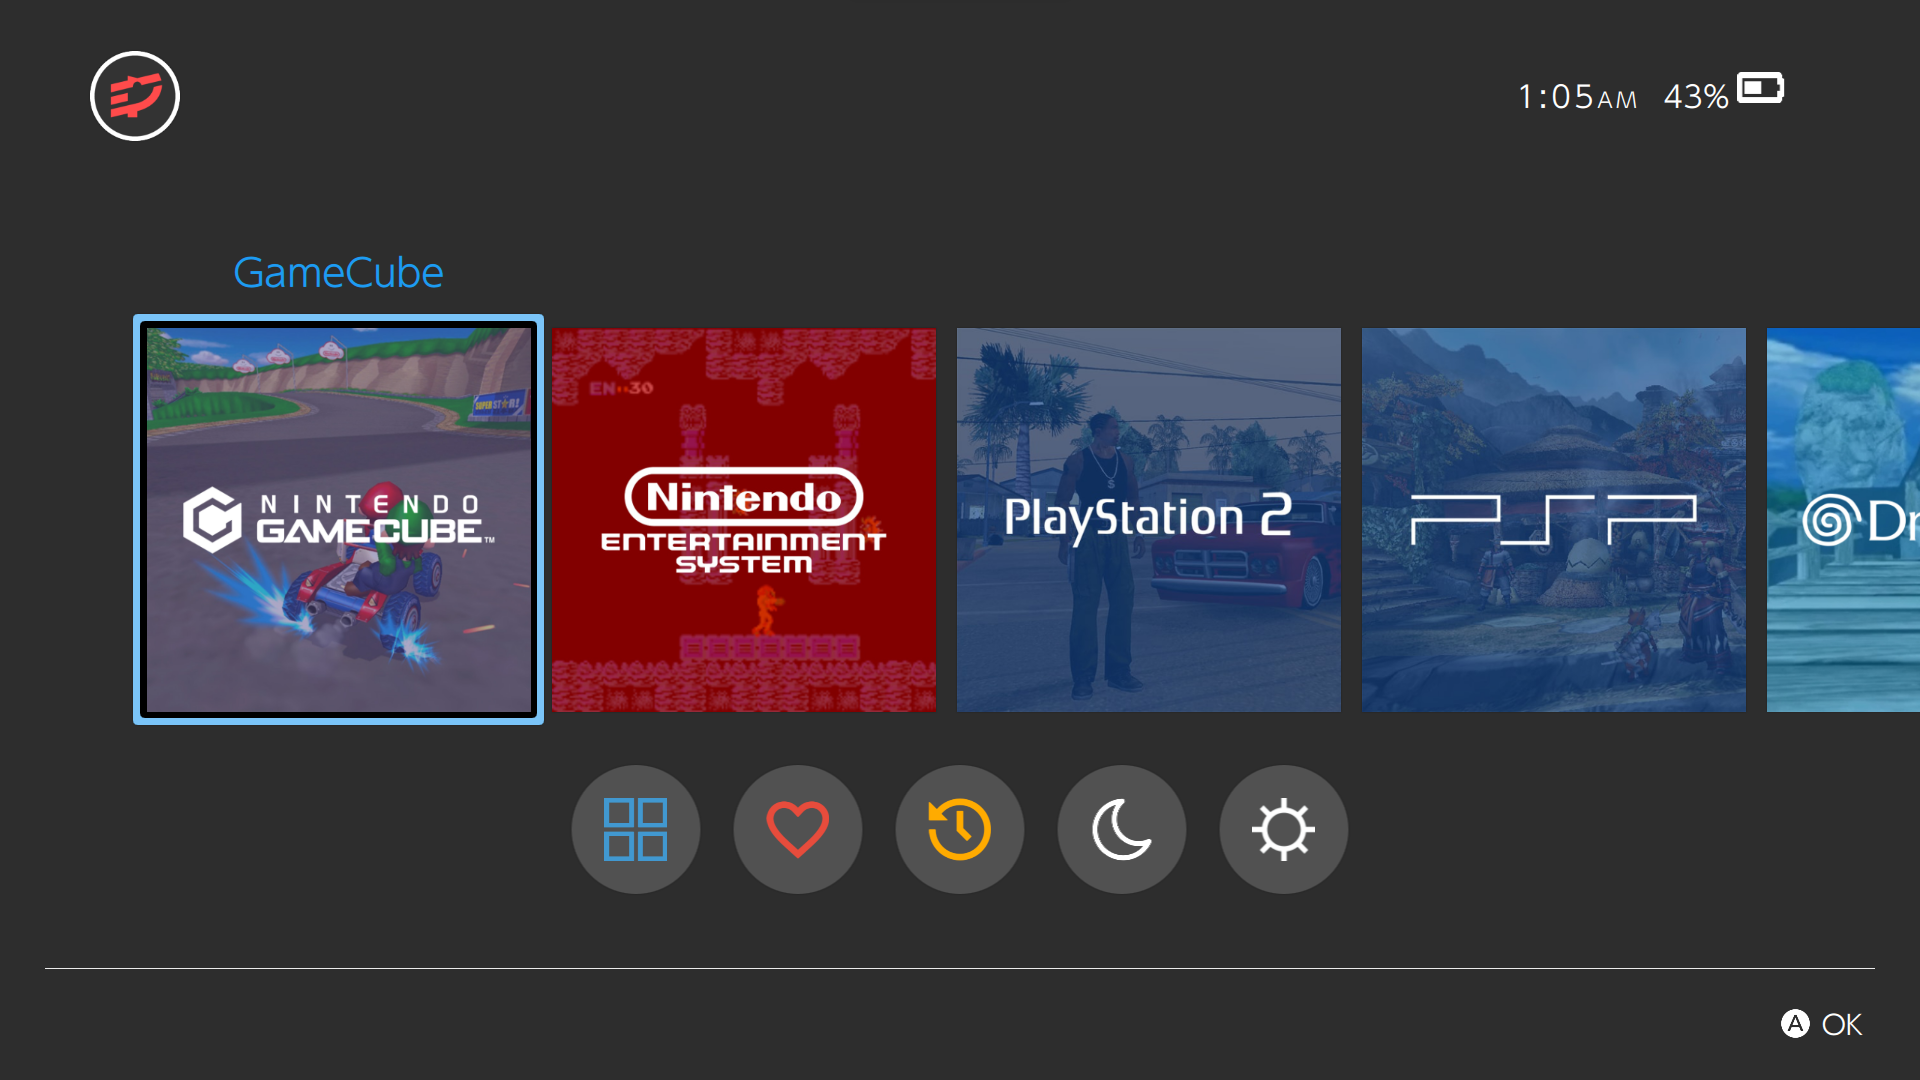
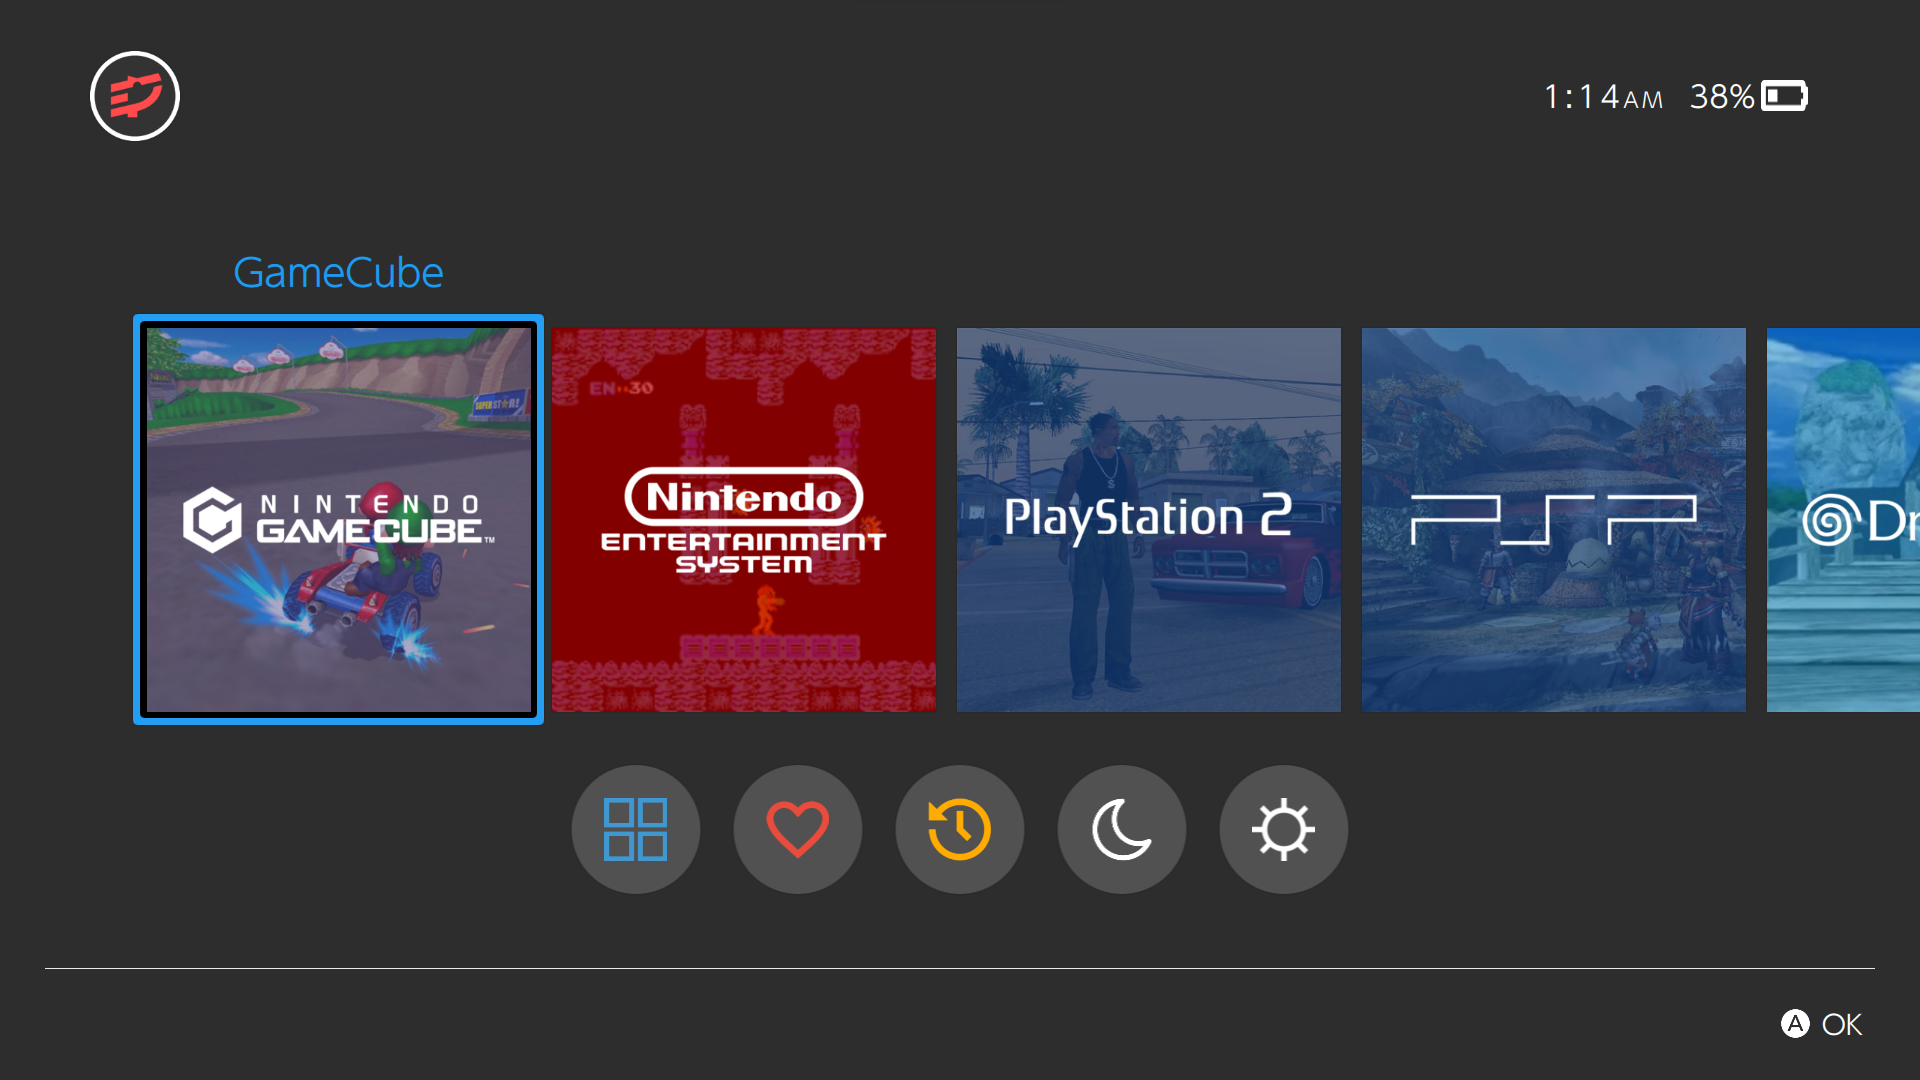
Update screenshots

Changed region(s): [[0.0625, 0.275, 0.2812, 0.6722], [0.7812, 0.0611, 0.9375, 0.1222]]

diff --git a/layer_home/SystemsScreen.qml b/layer_home/SystemsScreen.qml
@@ -133,8 +133,11 @@ FocusScope {
                     horizontalAlignment: Text.Right
                     font.capitalization: Font.SmallCaps
                 }
-                Row{
-                    spacing: vpx(5)
+
+                RowLayout {
+                    anchors {
+                        bottom: parent.bottom;
+                    }
 
                     Text {
                         id: batteryPercentage
@@ -165,8 +168,8 @@ FocusScope {
 
                     BatteryIcon{
                         id: batteryIcon
-                        width: height * 1.5
-                        height: sysTime.paintedHeight
+                        width: Math.round(screenheight * 0.0433)
+                        height: width / 1.5
                         layer.enabled: true
                         layer.effect: ColorOverlay {
                             color: theme.text
@@ -197,8 +200,8 @@ FocusScope {
 
                         property bool chargingStatus: api.device.batteryCharging
 
-                        width: height/2
-                        height: sysTime.paintedHeight
+                        width: Math.round(screenheight * 0.0433)
+                        height: width
                         fillMode: Image.PreserveAspectFit
                         source: "../assets/images/charging.svg"
                         sourceSize.width: 32
